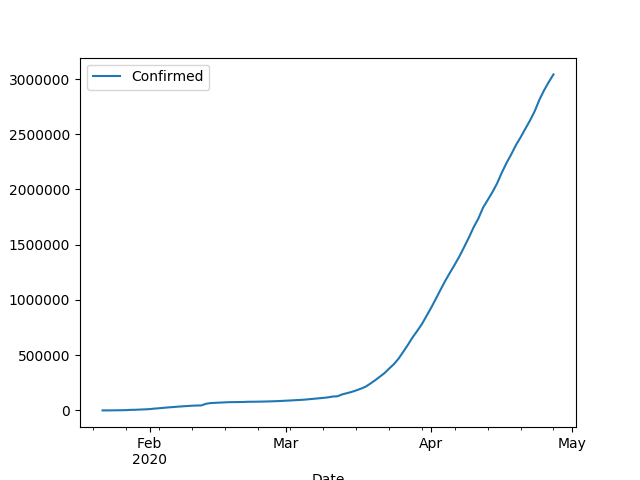
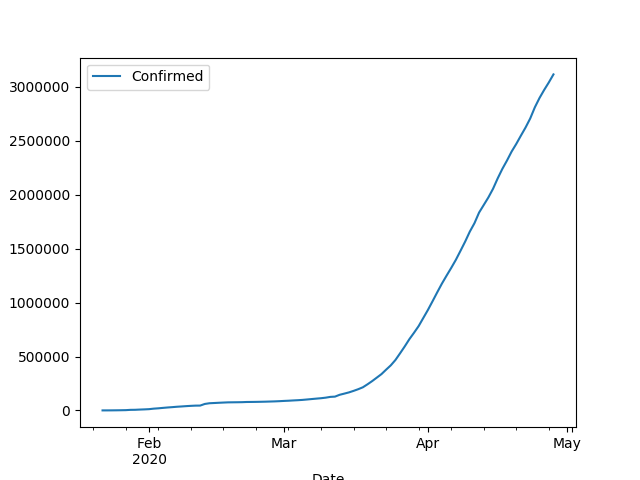
-

diff --git a/en/2008/07/batman-sucking-returns.md b/en/2008/07/batman-sucking-returns.md
@@ -1,19 +1,68 @@
 # Batman: The Sucking Returns
 
-Judgement is in: According to friends and yours truly, latest saga on Batman adventures fail to satisfy. Fail to entertain. To top it off, it sort of ... sucks too. Oh no! Explain that Mr. Karun! How dare you go against box office wisdom!
+Judgement is in: According to friends and yours truly, latest saga on
+Batman adventures fail to satisfy. Fail to entertain. To top it off,
+it sort of ... sucks too. Oh no! Explain that Mr. Karun! How dare you
+go against box office wisdom!
 
 Ahem. Let me explain.
 
-I am not sure if my negative review is due to failed expectations which were built up too much by pre-release rumor, but I can say with certainty that logical inconsistencies, and that over the top "Batvoice" was what did this movie in for me. I mean, I always found Bat costume always ridiculous compared to, say, Iron Man's armor which looks like a true knight's armor and is equipped with clever gizmo's which any fanboy would salivate over; But also, at some point in my growth I must have concluded that capes really do not make sense for a superhero who does not have superpowers and needs all the flexibility he can get. But there is more.
+I am not sure if my negative review is due to failed expectations
+which were built up too much by pre-release rumor, but I can say with
+certainty that logical inconsistencies, and that over the top
+"Batvoice" was what did this movie in for me. I mean, I always found
+Bat costume always ridiculous compared to, say, Iron Man's armor which
+looks like a true knight's armor and is equipped with clever gizmo's
+which any fanboy would salivate over; But also, at some point in my
+growth I must have concluded that capes really do not make sense for a
+superhero who does not have superpowers and needs all the flexibility
+he can get. But there is more.
 
-How can a Harvey Dent transition from such a doo-gooder, into the two-face we saw at the end of the movie? How can Morgan Freeman's character who scares people using his vigilante hero friend, object to using surveillance equipment to help catch criminals? I mean, c'mon! None of this make sense!
+How can a Harvey Dent transition from such a doo-gooder, into the
+two-face we saw at the end of the movie? How can Morgan Freeman's
+character who scares people using his vigilante hero friend, object to
+using surveillance equipment to help catch criminals? I mean, c'mon!
+None of this make sense!
 
-On other parts of the movie, it increasingly feels like director Nolan fell victim to Batman canon, you know, THE NEED TO STICK TO HISTORY. Why the need? Haven't we seen enough Jokers, two faced enemies, and other "normal" people who are just "bad". No superpowers? Why does every superhero "must" have an enemy in the same "power range" as him? Can't they have a kick-ass really bad-ass supervillain that can clean Batman's clock? You know in comic book world, Batman did go head-to-head with Superman, and he kicked his ass. Twice.
+On other parts of the movie, it increasingly feels like director Nolan
+fell victim to Batman canon, you know, THE NEED TO STICK TO
+HISTORY. Why the need? Haven't we seen enough Jokers, two faced
+enemies, and other "normal" people who are just "bad". No superpowers?
+Why does every superhero "must" have an enemy in the same "power
+range" as him? Can't they have a kick-ass really bad-ass supervillain
+that can clean Batman's clock? You know in comic book world, Batman
+did go head-to-head with Superman, and he kicked his ass. Twice.
 
-Plus. Fighting scenes suck. All you see two pointy ears that go up and down once in a while and bad guys sort of... fall around, and down, and that's it. What is the point of this? There is nothing new here. It sucks. Big time (to borrow a Dick Cheney euphemism). Really. Couldn't you do anything better? I am also tired of mindless sadism purported by bad guys in movies... This is what the new Joker represents - mindless, pointless violence. Isn't there enough of this on our streets, on our neighborhoods, in our families? Sure, art imitates life, but then why is Batman this "non-violence" BatGandhi who "shalt do no harm"? If Joker was supposed to be Batdude's mirror image, than Batdude must kick the same amount of ass as Joker does. There was a disconnect there.
+Plus. Fighting scenes suck. All you see two pointy ears that go up and
+down once in a while and bad guys sort of... fall around, and down,
+and that's it. What is the point of this? There is nothing new
+here. It sucks. Big time (to borrow a Dick Cheney
+euphemism). Really. Couldn't you do anything better? I am also tired
+of mindless sadism purported by bad guys in movies... This is what the
+new Joker represents - mindless, pointless violence. Isn't there
+enough of this on our streets, on our neighborhoods, in our families?
+Sure, art imitates life, but then why is Batman this "non-violence"
+BatGandhi who "shalt do no harm"? If Joker was supposed to be
+Batdude's mirror image, than Batdude must kick the same amount of ass
+as Joker does. There was a disconnect there.
 
-All of this makes the latest box office results for Batman all the more puzzling. Fear not dear Reader. I have an explanation... If we use Stuff White People Like blog's thinking patterns , Batman would fall into a category of a movie that white people would love to talk about, just because a semi-famous actor died in it (it's very important he was semi-famous, so he can be "discovered" and be talked about posthumously) That is ALL. You don't need any other publicity stunt, a push, or leg-up so to speak; The death of Heath Ledger right after the movie finished filming was all this movie ever needed. The man will earn a posthumous Oscar he probably deserves - he was so out of character that usually begets an Oscar in Tinseltown, which will at the same time push the box score of this movie to stratosphere.
+All of this makes the latest box office results for Batman all the
+more puzzling. Fear not dear Reader. I have an explanation... If we
+use Stuff White People Like blog's thinking patterns , Batman would
+fall into a category of a movie that white people would love to talk
+about, just because a semi-famous actor died in it (it's very
+important he was semi-famous, so he can be "discovered" and be talked
+about posthumously) That is ALL. You don't need any other publicity
+stunt, a push, or leg-up so to speak; The death of Heath Ledger right
+after the movie finished filming was all this movie ever needed. The
+man will earn a posthumous Oscar he probably deserves - he was so out
+of character that usually begets an Oscar in Tinseltown, which will at
+the same time push the box score of this movie to stratosphere.
 
-Job well done. Good director time was wasted but, hey, money is coming in ... My $10 was wasted too but I consider this an education. Fuck man, I stayed throughout the whole movie to punish myself so I don't repeat this mistake again... So No more Hulk, no more Batman and no more Superman for me. Don't give me that X-men III crap either.
+Job well done. Good director time was wasted but, hey, money is coming
+in ... My $10 was wasted too but I consider this an education. Fuck
+man, I stayed throughout the whole movie to punish myself so I don't
+repeat this mistake again... So No more Hulk, no more Batman and no
+more Superman for me. Don't give me that X-men III crap either.
 
 For more, look here.

diff --git a/en/2019/05/stats.md b/en/2019/05/stats.md
@@ -19,16 +19,18 @@ start=datetime.datetime(1945, 1, 1)
 end=datetime.datetime(today.year, today.month, today.day)
 df = data.DataReader(['GDPC1'], 'fred', start, end)
 df['growann'] = (  (  (1+df.pct_change())**4  )-1.0  )*100.0
-print (df[pd.DatetimeIndex(df.index).year == 1984]['growann'])
+#print (df[pd.DatetimeIndex(df.index).year == 1984]['growann'])
+print (df['growann'].tail(5))
 # look at Q2, 04-01 date
 ```
 
 ```text
 DATE
-1984-01-01    8.051348
-1984-04-01    7.092351
-1984-07-01    3.912381
-1984-10-01    3.324102
+2019-01-01    3.096140
+2019-04-01    2.013819
+2019-07-01    2.103507
+2019-10-01    2.126630
+2020-01-01   -4.783095
 Name: growann, dtype: float64
 ```
 
@@ -63,24 +65,24 @@ results = smf.ols(regr, data=df).fit()
 print ('R^2', results.rsquared)
 conf = results.conf_int()
 
-net_approv = -11.8; gdp_growth = 2.0
+net_approv = -10.0; gdp_growth = 0.0
 pred = [1., gdp_growth, net_approv, 0]
 print (np.dot(pred, conf), np.dot(pred, results.params))
 
-net_approv = -11.8; gdp_growth = 1.0
+net_approv = -10.0; gdp_growth = -2.0
 pred = [1., gdp_growth, net_approv, 0]
 print (np.dot(pred, conf), np.dot(pred, results.params))
 
-net_approv = -4.0; gdp_growth = -4.0
+net_approv = -10.0; gdp_growth = -5.0
 pred = [1., gdp_growth, net_approv, 0]
 print (np.dot(pred, conf), np.dot(pred, results.params))
 ```
 
 ```text
 R^2 0.9011858911763367
-[49.6962248  53.16687853] 51.431551669024834
-[49.37184684 52.33149113] 50.85166898486028
-[48.17063647 49.27344876] 48.72204261352556
+[49.14454875 51.75431018] 50.4494294659622
+[48.49579282 50.08353537] 49.28966409763309
+[47.52265893 47.57737316] 47.550016045139444
 ```
 
 

diff --git a/en/2020/02/corona.md b/en/2020/02/corona.md
@@ -307,10 +307,10 @@ plt.savefig('timeseries.png')
 ```text
             Confirmed
 Date                 
-2020-04-24    2811603
-2020-04-25    2897624
-2020-04-26    2972363
-2020-04-27    3041764
+2020-04-25  2897624.0
+2020-04-26  2972363.0
+2020-04-27  3041764.0
+2020-04-28  3116398.0
 ```
 
 ![](timeseries.png)
@@ -328,11 +328,11 @@ plt.savefig('rate.png')
 ```text
             Confirmed
 Date                 
-2020-04-23       3.19
 2020-04-24       3.84
 2020-04-25       3.06
 2020-04-26       2.58
 2020-04-27       2.33
+2020-04-28       2.45
 ```
 
 ![](rate.png)

diff --git a/en/2020/02/corona_math.md b/en/2020/02/corona_math.md
@@ -122,11 +122,11 @@ plt.savefig('R0est.png')
 
 ```text
 Date
-2020-04-13   0.53
-2020-04-14   0.51
-2020-04-15   0.49
-2020-04-16   0.46
-2020-04-17   0.44
+2020-04-14    0.508960
+2020-04-15    0.486882
+2020-04-16    0.463555
+2020-04-17    0.440324
+2020-04-18    0.419404
 Name: R0, dtype: float64
 ```
 
